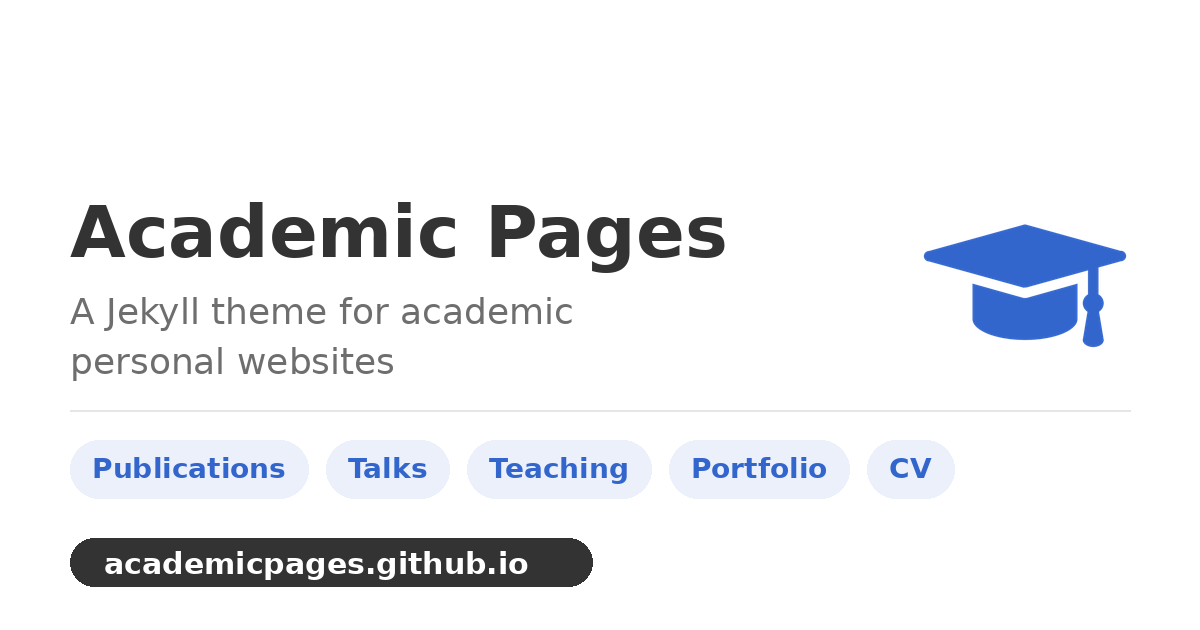
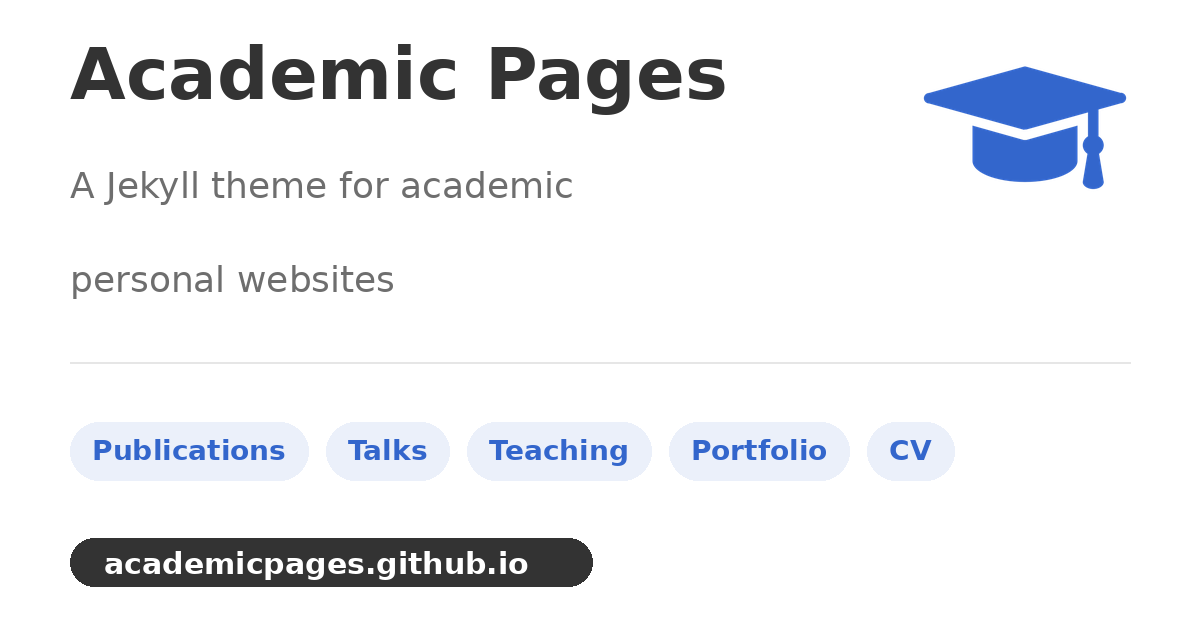
Address review: balance vertical padding on default OG card
Equalize whitespace: 44px above the 'Academic Pages' title now matches
the 44px below the 'academicpages.github.io' footer chip (was ~190px).
Content band 44..586 split into even 58px gaps; logo stays aligned with
title top. Regenerated via scripts/make-og-image.py.

diff --git a/scripts/make-og-image.py b/scripts/make-og-image.py
@@ -54,8 +54,8 @@ def main():
         logo = Image.open(logo_path).convert("RGBA")
         logo.thumbnail((210, 210), Image.Resampling.LANCZOS)
         # Align the logo's top edge with the top of the "Academic Pages" title
-        # (title is drawn at y=190 below), per maintainer review.
-        img.paste(logo, (W - 210 - 70, 172), logo)
+        # (title is drawn at y=32 below), per maintainer review.
+        img.paste(logo, (W - 210 - 70, 14), logo)
     else:
         # Fallback: simple graduation-cap motif if the favicon is missing
         mx, my = W - 230, 130
@@ -63,18 +63,20 @@ def main():
         d.polygon([(mx - 90, my), (mx, my + 55), (mx - 90, my + 110), (mx - 180, my + 55)], fill=(130, 160, 215))
         d.polygon([(mx - 90, my + 110), (mx - 180, my + 55), (mx - 180, my + 110), (mx - 90, my + 165)], fill=(130, 160, 215))
 
-    # Title + subtitle (left)
-    d.text((70, 190), "Academic Pages", font=f_title, fill=DARK)
-    d.text((70, 290), "A Jekyll theme for academic", font=f_sub, fill=GREY)
-    d.text((70, 340), "personal websites", font=f_sub, fill=GREY)
+    # Title + subtitle (left). Vertical rhythm: 44px padding above the title
+    # matches the 44px padding below the footer domain chip (maintainer review
+    # 2026-10-18). Content band 44..586 (542px) split into even 58px gaps.
+    d.text((70, 32), "Academic Pages", font=f_title, fill=DARK)
+    d.text((70, 164), "A Jekyll theme for academic", font=f_sub, fill=GREY)
+    d.text((70, 258), "personal websites", font=f_sub, fill=GREY)
 
     # separator
-    d.line([70, 410, W - 70, 410], fill=(230, 230, 230), width=2)
+    d.line([70, 362, W - 70, 362], fill=(230, 230, 230), width=2)
 
     # content pills
     pills = ["Publications", "Talks", "Teaching", "Portfolio", "CV"]
     x = 70
-    y = 440
+    y = 422
     for p_ in pills:
         fw = d.textlength(p_, font=f_pill) + 44
         if x + fw > 1130:
